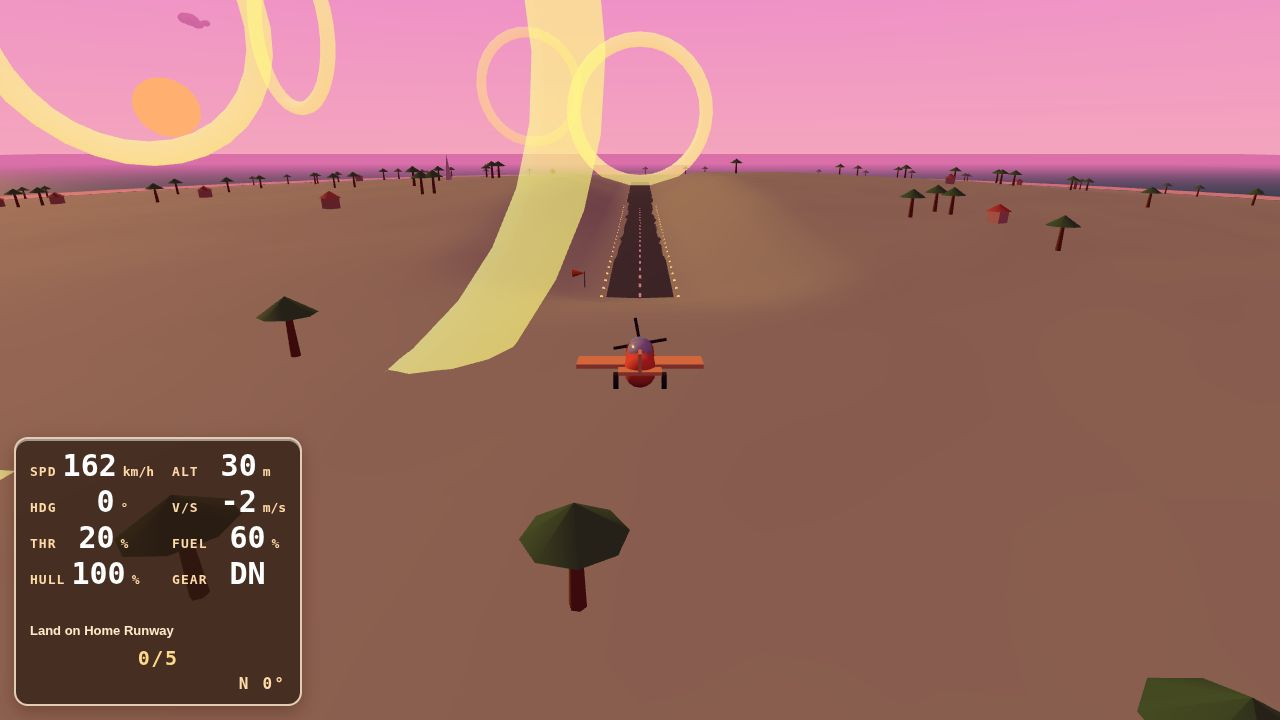
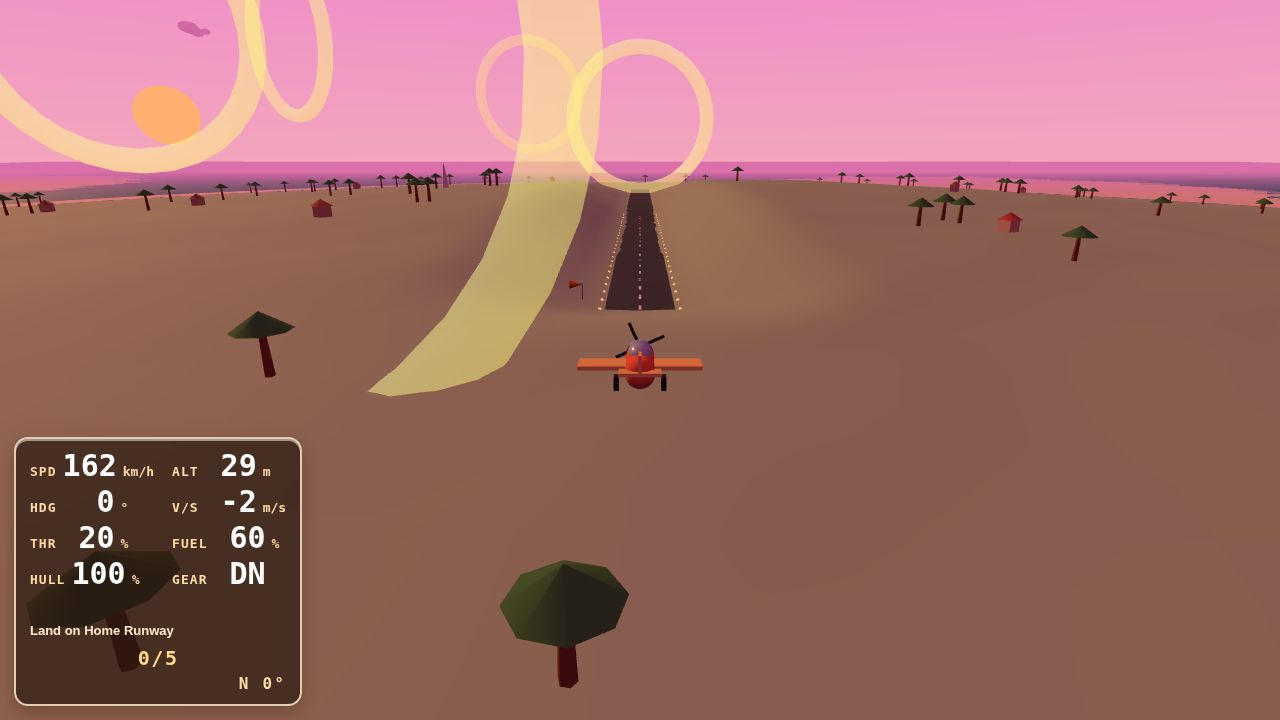
CP7 step 4: 12 fps quantized water, clouds, props and propeller; smooth flight/camera

diff --git a/game/src/main.js b/game/src/main.js
@@ -1,5 +1,6 @@
 import * as THREE from "three";
 import { createFlightState, stepFlight } from "./flight-model.js";
+import { STOP_MOTION } from "./config.js";
 import { createInput } from "./input.js";
 import { createHud } from "./hud/hud.js";
 import { assembleScene } from "./render/scene.js";
@@ -72,6 +73,8 @@ const startedAt = performance.now();
 let frames = 0;
 let elapsed = 0;
 let propAngle = 0;
+let quantizedTime = 0;
+let qSteps = 0;
 let paused = false;
 let cameraMode = shotMode === "cockpit" ? 1 : 0;
 if (isShotScene) {
@@ -154,8 +157,16 @@ function tick() {
       if (crashed(state)) setPhase("CRASH", { detail: landing.text });
     }
     prevOnGround = state.onGround;
-    propAngle += (6 + state.throttle * 60) * dt;
     elapsed += dt;
+    const q = Math.floor(elapsed * STOP_MOTION.fps) / STOP_MOTION.fps;
+    if (q !== quantizedTime) {
+      quantizedTime = q;
+      qSteps += 1;
+      propAngle = q * (6 + state.throttle * 60);
+      world.sky.updateClouds(q);
+      world.water.userData.updateWaves(q);
+      world.props.userData.update(q);
+    }
   }
 
   const showHint = !isShotScene && (paused || hintForced || (!paused && performance.now() - startedAt < 10000));
@@ -234,7 +245,7 @@ function tick() {
   }
   if (paused) hud.el.classList.add("paused"); else hud.el.classList.remove("paused");
 
-  window.__DEBUG__ = { controls: c, state: state, cameraMode: cameraMode, cockpit: cockpitMode, exteriorVisible: air.visible, near: camera.near, fov: camera.fov, hintShown: showHint, cloud: world.sky.cloudMat.color.getHex(), cloudEmissive: world.sky.cloudMat.emissiveIntensity, cloudInfo: world.sky.cloudInfo, hemiGround: world.sky.hemi.groundColor.getHex(), phase: phase, mission: { phase: missionState.phase, ringIndex: missionState.ringIndex, complete: missionState.complete, failed: missionState.failed, stars: missionState.stars }, landing: landingText, clayInfo: world.clayInfo, skyInfo: world.skyInfo, ringInfo: rings.info, runwayInfo: world.runwayInfo, ringStates: rings.stateInfo, lampPosts: !!scene.getObjectByName("lamp-posts"), restarts: restarts, keys: Array.from(input.keys), agl: agl, calls: renderer.info.render.calls };
+  window.__DEBUG__ = { controls: c, state: state, cameraMode: cameraMode, cockpit: cockpitMode, exteriorVisible: air.visible, near: camera.near, fov: camera.fov, hintShown: showHint, cloud: world.sky.cloudMat.color.getHex(), cloudEmissive: world.sky.cloudMat.emissiveIntensity, cloudInfo: world.sky.cloudInfo, hemiGround: world.sky.hemi.groundColor.getHex(), phase: phase, mission: { phase: missionState.phase, ringIndex: missionState.ringIndex, complete: missionState.complete, failed: missionState.failed, stars: missionState.stars }, landing: landingText, clayInfo: world.clayInfo, skyInfo: world.skyInfo, stopMotion: { fps: STOP_MOTION.fps, steps: qSteps, time: quantizedTime, propAngle: propAngle }, ringInfo: rings.info, runwayInfo: world.runwayInfo, ringStates: rings.stateInfo, lampPosts: !!scene.getObjectByName("lamp-posts"), restarts: restarts, keys: Array.from(input.keys), agl: agl, calls: renderer.info.render.calls };
 
   renderer.render(scene, camera);
   frames += 1;

diff --git a/game/src/render/scene.js b/game/src/render/scene.js
@@ -17,10 +17,12 @@ export function assembleScene(THREE, scene, doc, seed) {
   const sky = buildSky(THREE, scene, doc);
   const terrain = buildTerrainMesh(THREE, matFactory);
   scene.add(terrain);
-  scene.add(buildWater(THREE, matFactory));
+  const water = buildWater(THREE, matFactory);
+  scene.add(water);
   const runways = buildRunways(THREE, matFactory);
   scene.add(runways);
-  scene.add(buildProps(THREE, matFactory, makeRandom(seed || 7)));
+  const props = buildProps(THREE, matFactory, makeRandom(seed || 7));
+  scene.add(props);
 
   const aircraft = buildAircraft(THREE, matFactory);
   scene.add(aircraft.group);
@@ -28,6 +30,8 @@ export function assembleScene(THREE, scene, doc, seed) {
   return {
     terrain,
     sky,
+    water,
+    props,
     runwayInfo: runways.userData.runwayInfo,
     mat: matFactory,
     clayInfo: clay.info,

diff --git a/game/src/world/water.js b/game/src/world/water.js
@@ -4,11 +4,20 @@ import { WORLD_HALF } from "./terrain.js";
 
 export function buildWater(THREE, mat) {
   const water = new THREE.Mesh(
-    new THREE.PlaneGeometry(WORLD_HALF * 4, WORLD_HALF * 4),
+    new THREE.PlaneGeometry(WORLD_HALF * 4, WORLD_HALF * 4, 24, 24),
     new THREE.MeshStandardMaterial({ color: 0x2f7d8c, roughness: 0.4, metalness: 0.1, transparent: true, opacity: 0.92 }),
   );
   water.rotation.x = -Math.PI / 2;
   water.position.y = 0.4;
   water.name = "sea";
+  const attr = water.geometry.attributes.position;
+  water.userData.updateWaves = (t) => {
+    for (let i = 0; i < attr.count; i += 1) {
+      const x = attr.getX(i);
+      const y = attr.getY(i);
+      attr.setZ(i, Math.sin(x * 0.004 + t * 0.6) * 0.5 + Math.cos(y * 0.005 + t * 0.45) * 0.35);
+    }
+    attr.needsUpdate = true;
+  };
   return water;
 }

diff --git a/game/src/world/sky.js b/game/src/world/sky.js
@@ -87,6 +87,9 @@ export function buildSky(THREE, scene, doc) {
   return {
     sun, clouds, cloudMat, hemi, sunDisc,
     info: { fog: scene.fog.color.getHex(), hemiSky: hemi.color.getHex(), hemiGround: hemi.groundColor.getHex(), sun: sun.color.getHex(), disc: sunDisc.material.color.getHex(), shadowSize: sun.shadow.mapSize.x },
+    updateClouds(t) {
+      clouds.rotation.y = t * 0.0006;
+    },
     updateSun(x, y, z) {
       sun.position.set(x + 300, y + 180, z + 200);
       sun.target.position.set(x, y, z);

diff --git a/game/src/world/props.js b/game/src/world/props.js
@@ -132,5 +132,8 @@ export function buildProps(THREE, mat, random) {
   planks.instanceMatrix.needsUpdate = true;
   group.add(planks);
 
+  group.userData.update = (t) => {
+    frond.rotation.z = Math.sin(t * 0.5) * 0.012;
+  };
   return group;
 }
